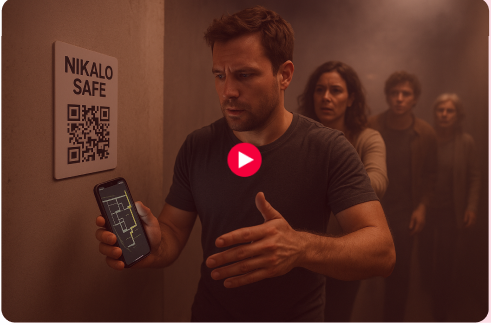
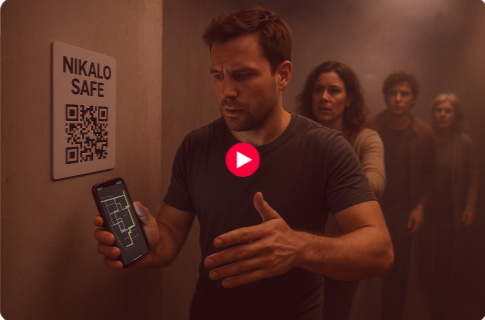
sync the development into main (#12)
* Nothing updated

* Terms of use and privacy policy linked

* Make Email Clickable

* Solution section hero image updated

* Image changed in the solution card

* Updated the text size of the solution page hero section same like home page hero section

* Heading position changed in the aboutus page

* feat(ui): make 'Discover How It Works' button mobile-responsive for Android and iOS

- Updated href logic to detect mobile devices (Android, iPhone, iPad, iPod)

- Opens default mail app on mobile instead of Gmail web compose

- Retains Gmail compose link for desktop users

* Modified the Terms of use

* Modified Privacy policy

* Modified Our leader ship cards

* Footer updated

* fix (Ui): removed the duplicate data in the FeadBackCarousel

* Add mail in the video section

* mail subject added in the video section

* Footer phone updated

* made numbers clickable in the contact us page

* Made mail clickable in the footer section

* Added the another innovation feadback on the FeadbackCarsouel section on development branch

* Updated the about us image with new version

* Updated the images with new one in all the section

* Testimonial cards removed from the about us page

* Updated the innovation feadbacks

* Updated the feadback carousel

* Logo added in tab icon and parent company name changed in the footer

* Updated contact us phone numbers

* Patent was added in the terms of use

* Feat(Ui): Updated the FeedbackCarousel section

- Increased the size of the image
[…]

diff --git a/client/src/components/FeedbackCarousel.jsx b/client/src/components/FeedbackCarousel.jsx
@@ -36,14 +36,14 @@ const feedbacks = [
   {
     photo: feedbackuser4,
     text: "As a structural engineer, I must say that structural stability is the most important aspect of any building. However, nowadays, along with structural stability, the fire safety of the building has also become equally important. While many buildings are designed with fire safety measures, the main problem during a fire emergency is that people are often unable to find the safest exit path. This is where Nikalo Safe comes in - it helps people find the right escape route during a fire. It also assists firefighters by providing detailed information about the building, enabling them to take quick and effective action.",
-    name: "Prasanna",
-    profession: "BE (Civil), MTech Structural Engineer",
+    name: "Prasanna Mutalikdesai",
+    profession: "B.E Civil M.Tech in Structural Engineering",
   },
   {
     photo: feedbackuser5,
     text: "Nikalo Safe helps reduce panic during fire emergencies by providing occupants with precise fire location data. This clarity empowers people to evacuate quickly and calmly, even when guiding children or elderly family members. The system supports self-rescue efforts and increases the chances of protecting every life in the building.",
-    name: "Maruthi",
-    profession: "BE (Civil), MTech Structural Engineer",
+    name: "Maruti Sulebhavikar",
+    profession: "B.E Civil M.Tech in Structural Engineering",
   },
   {
     photo: feedbackuser6,
@@ -72,8 +72,8 @@ const feedbacks = [
   {
     photo: feedbackuser10,
     text: "What I love about the concept is its simplicity. QR codes are inexpensive, universally accessible, and require no app downloads. That means the solution is not just for tech-savvy people — it’s for everyone, everywhere.",
-    name: "Manjusha",
-    profession: "B.Arch",
+    name: "Ar. Manjusha Mahajan",
+    profession: "B.Arch, BIM Architect",
   },
 ];
 
@@ -138,7 +138,7 @@ const FeedbackCarousel = () => {
             <img
               src={photo}
               alt={name}
-              className="w-20 h-20 sm:w-24 sm:h-24 rounded-full object-cover border-4 border-white mb-6"
+              className="w-28 h-28 sm:w-32 sm:h-32 md:w-36 md:h-36 rounded-full object-cover border-4 border-white mb-6"
               loading="lazy"
             />
 
@@ -179,6 +179,11 @@ const FeedbackCarousel = () => {
               >
                 <ChevronRightIcon size={24} />
               </button>
+            </div>
+
+            {/* Card counter */}
+            <div className="mt-4 text-paragraph sm:text-base">
+              {idx + 1} / {feedbacks.length}
             </div>
 
             {/* Dots for mobile */}

diff --git a/client/src/components/TermsOfUse.jsx b/client/src/components/TermsOfUse.jsx
@@ -12,7 +12,7 @@ export default function TermsOfUse() {
 
       <p className="mb-4">
         <strong>Welcome to Nikalo Safe.</strong> By accessing or using our web-based fire
-        evacuation and safety assistance system (“Service”), you agree to comply with and be
+        evacuation and safety assistance system (“Solutions”), you agree to comply with and be
         bound by these Terms of Use. If you do not agree with these terms, please do not use our
         services.
       </p>
@@ -53,11 +53,10 @@ export default function TermsOfUse() {
       <section className="mt-6">
         <h2 className="text-xl font-semibold mb-2">4. Intellectual Property</h2>
         <p>
-          All content, software, designs, and materials provided by Nikalo Safe are owned by or licensed to
-          us and are protected by applicable intellectual property laws. You may not copy, modify, distribute,
-          or exploit any part of the Service without our prior written permission.
+          All content, software, designs, and materials provided by Nikalo Safe are owned by or licensed to us and are protected by applicable intellectual property laws. You may not copy, modify, distribute, or exploit any part of the Service without our prior written permission. The intellectual property of Nikalo Safe is covered under Indian Application Number <strong>202421054472</strong> (filed on <strong>17 July 2024</strong>) and PCT Application Number <strong>PCT/IN2025/051041</strong> (filed on <strong>11 July 2025</strong>).
         </p>
       </section>
+
 
       <section className="mt-6">
         <h2 className="text-xl font-semibold mb-2">5. Limitation of Liability</h2>

diff --git a/client/src/components/Contact.jsx b/client/src/components/Contact.jsx
@@ -61,7 +61,7 @@ const Contact = () => {
             <Phone className="text-red-600 w-6 h-6 mt-1" />
             <div className="text-gray-800 font-medium">
               <a href="tel:+918390703746" className="flex items-center hover:text-gray-900 transition-colors cursor-pointer"><p>+918390703746</p></a>
-              <a href="tel:+918390703746" className="flex items-center hover:text-gray-900 transition-colors cursor-pointer"><p>+918329709173</p></a>
+              <a href="tel:+918329709173" className="flex items-center hover:text-gray-900 transition-colors cursor-pointer"><p>+918329709173</p></a>
             </div>
           </div>
         </div>
